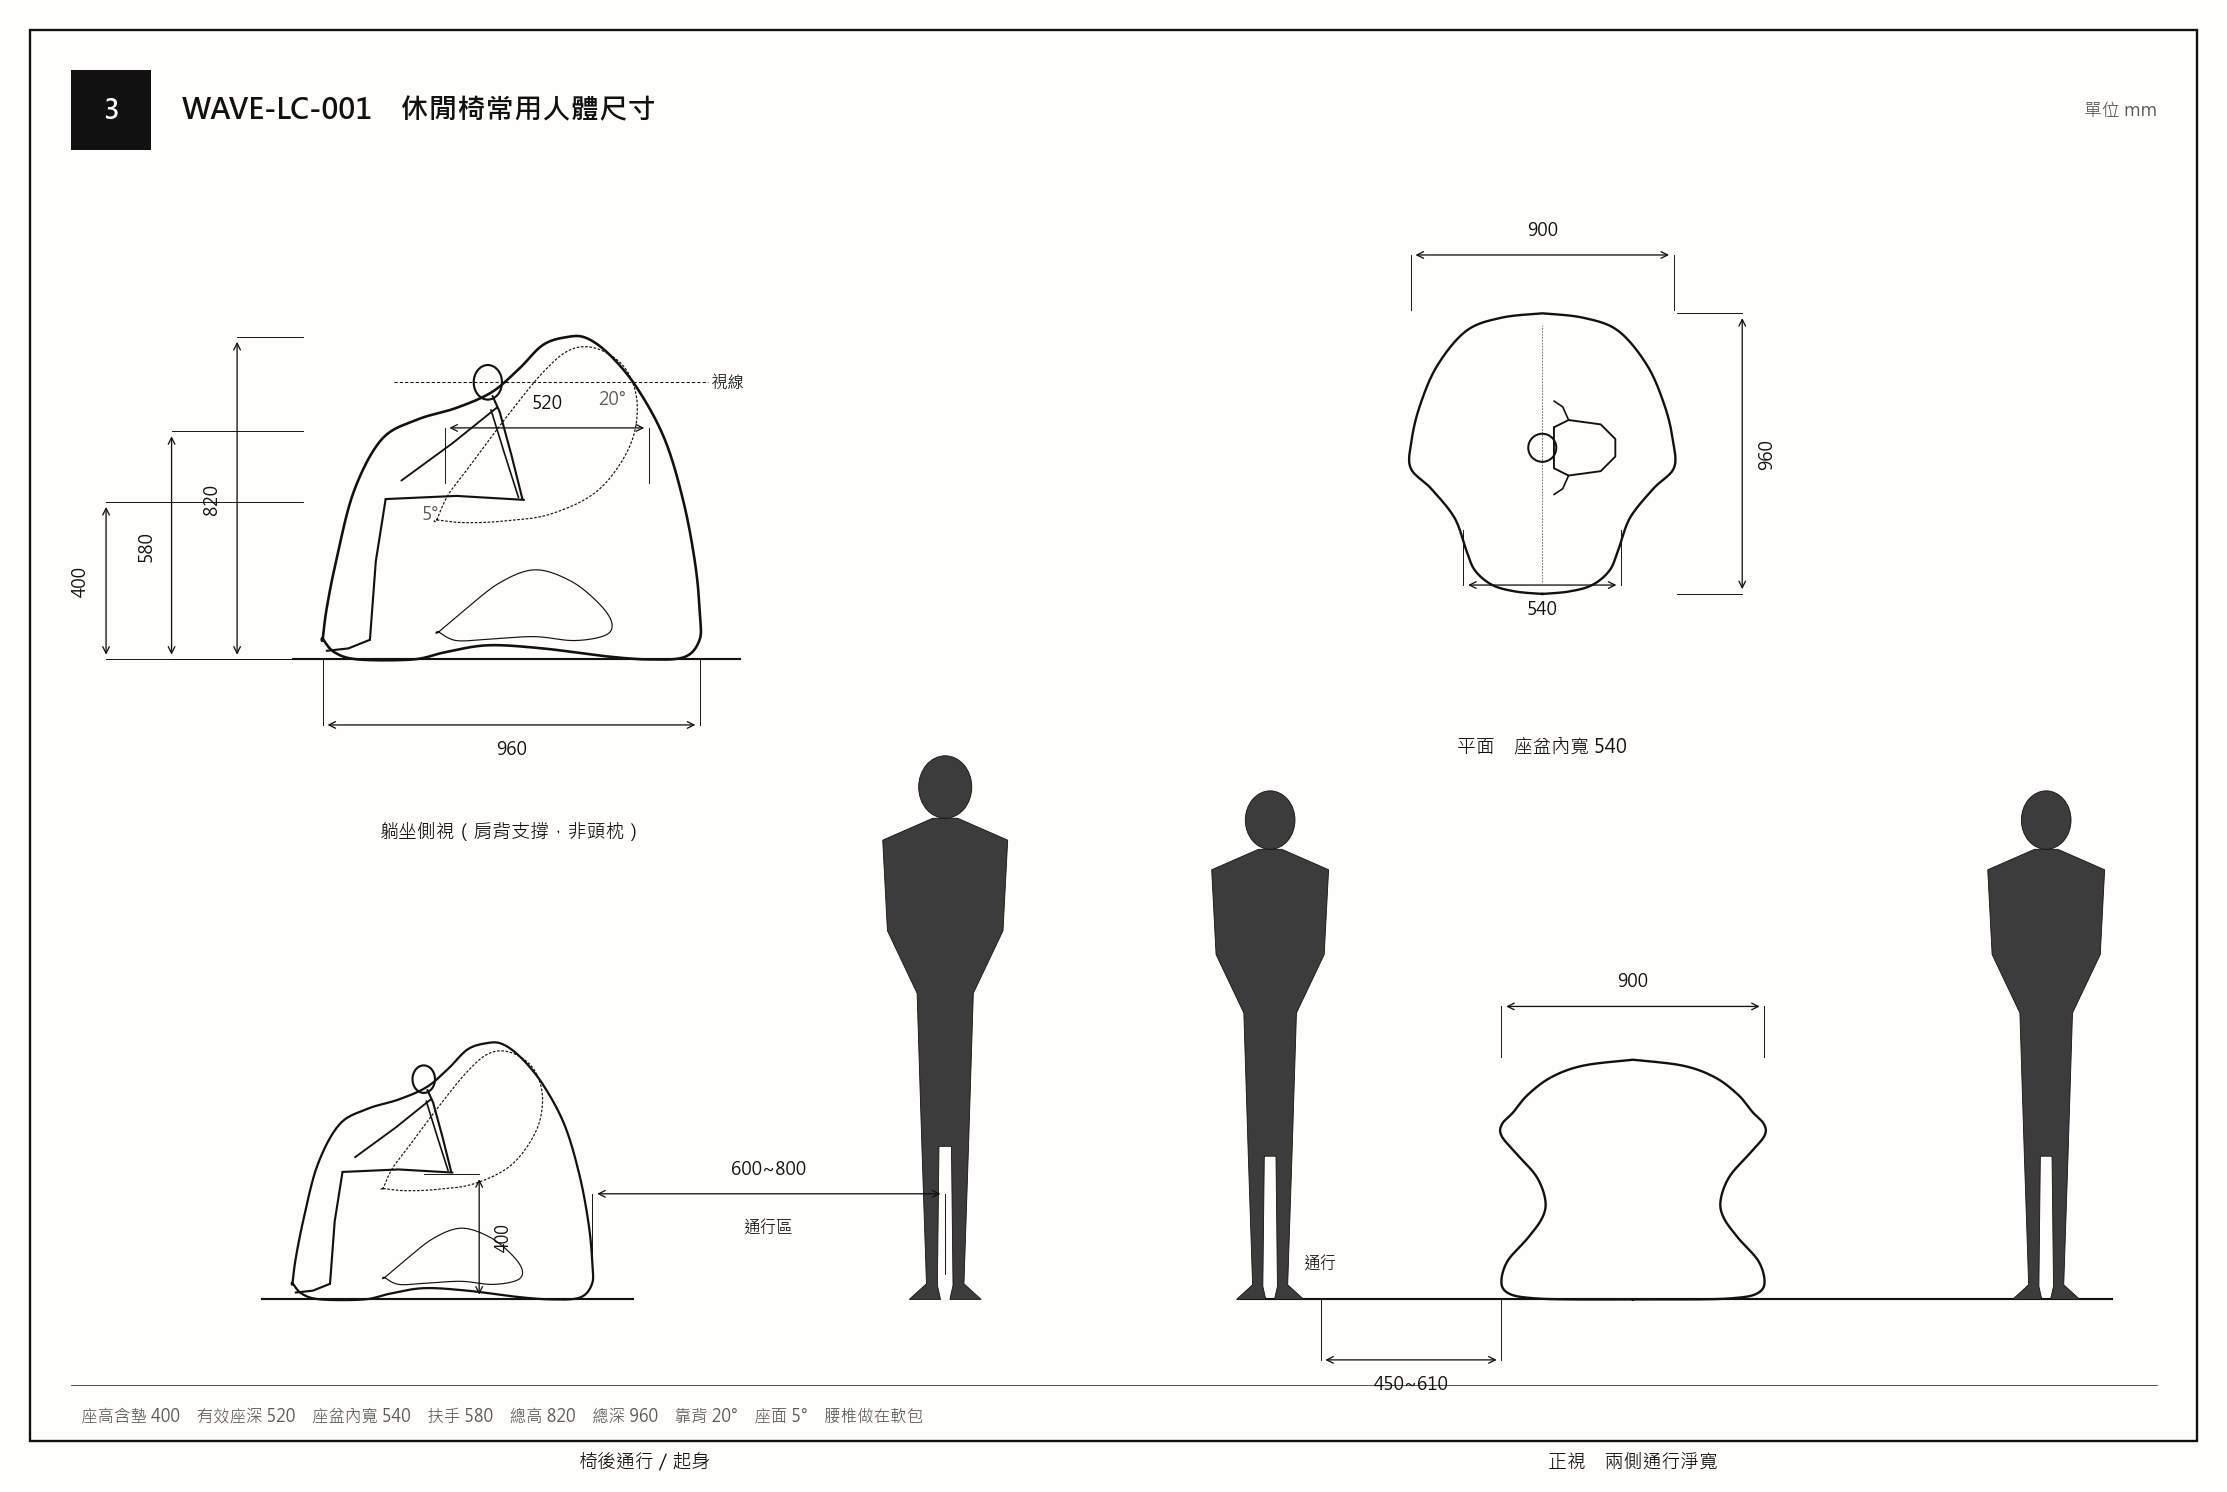
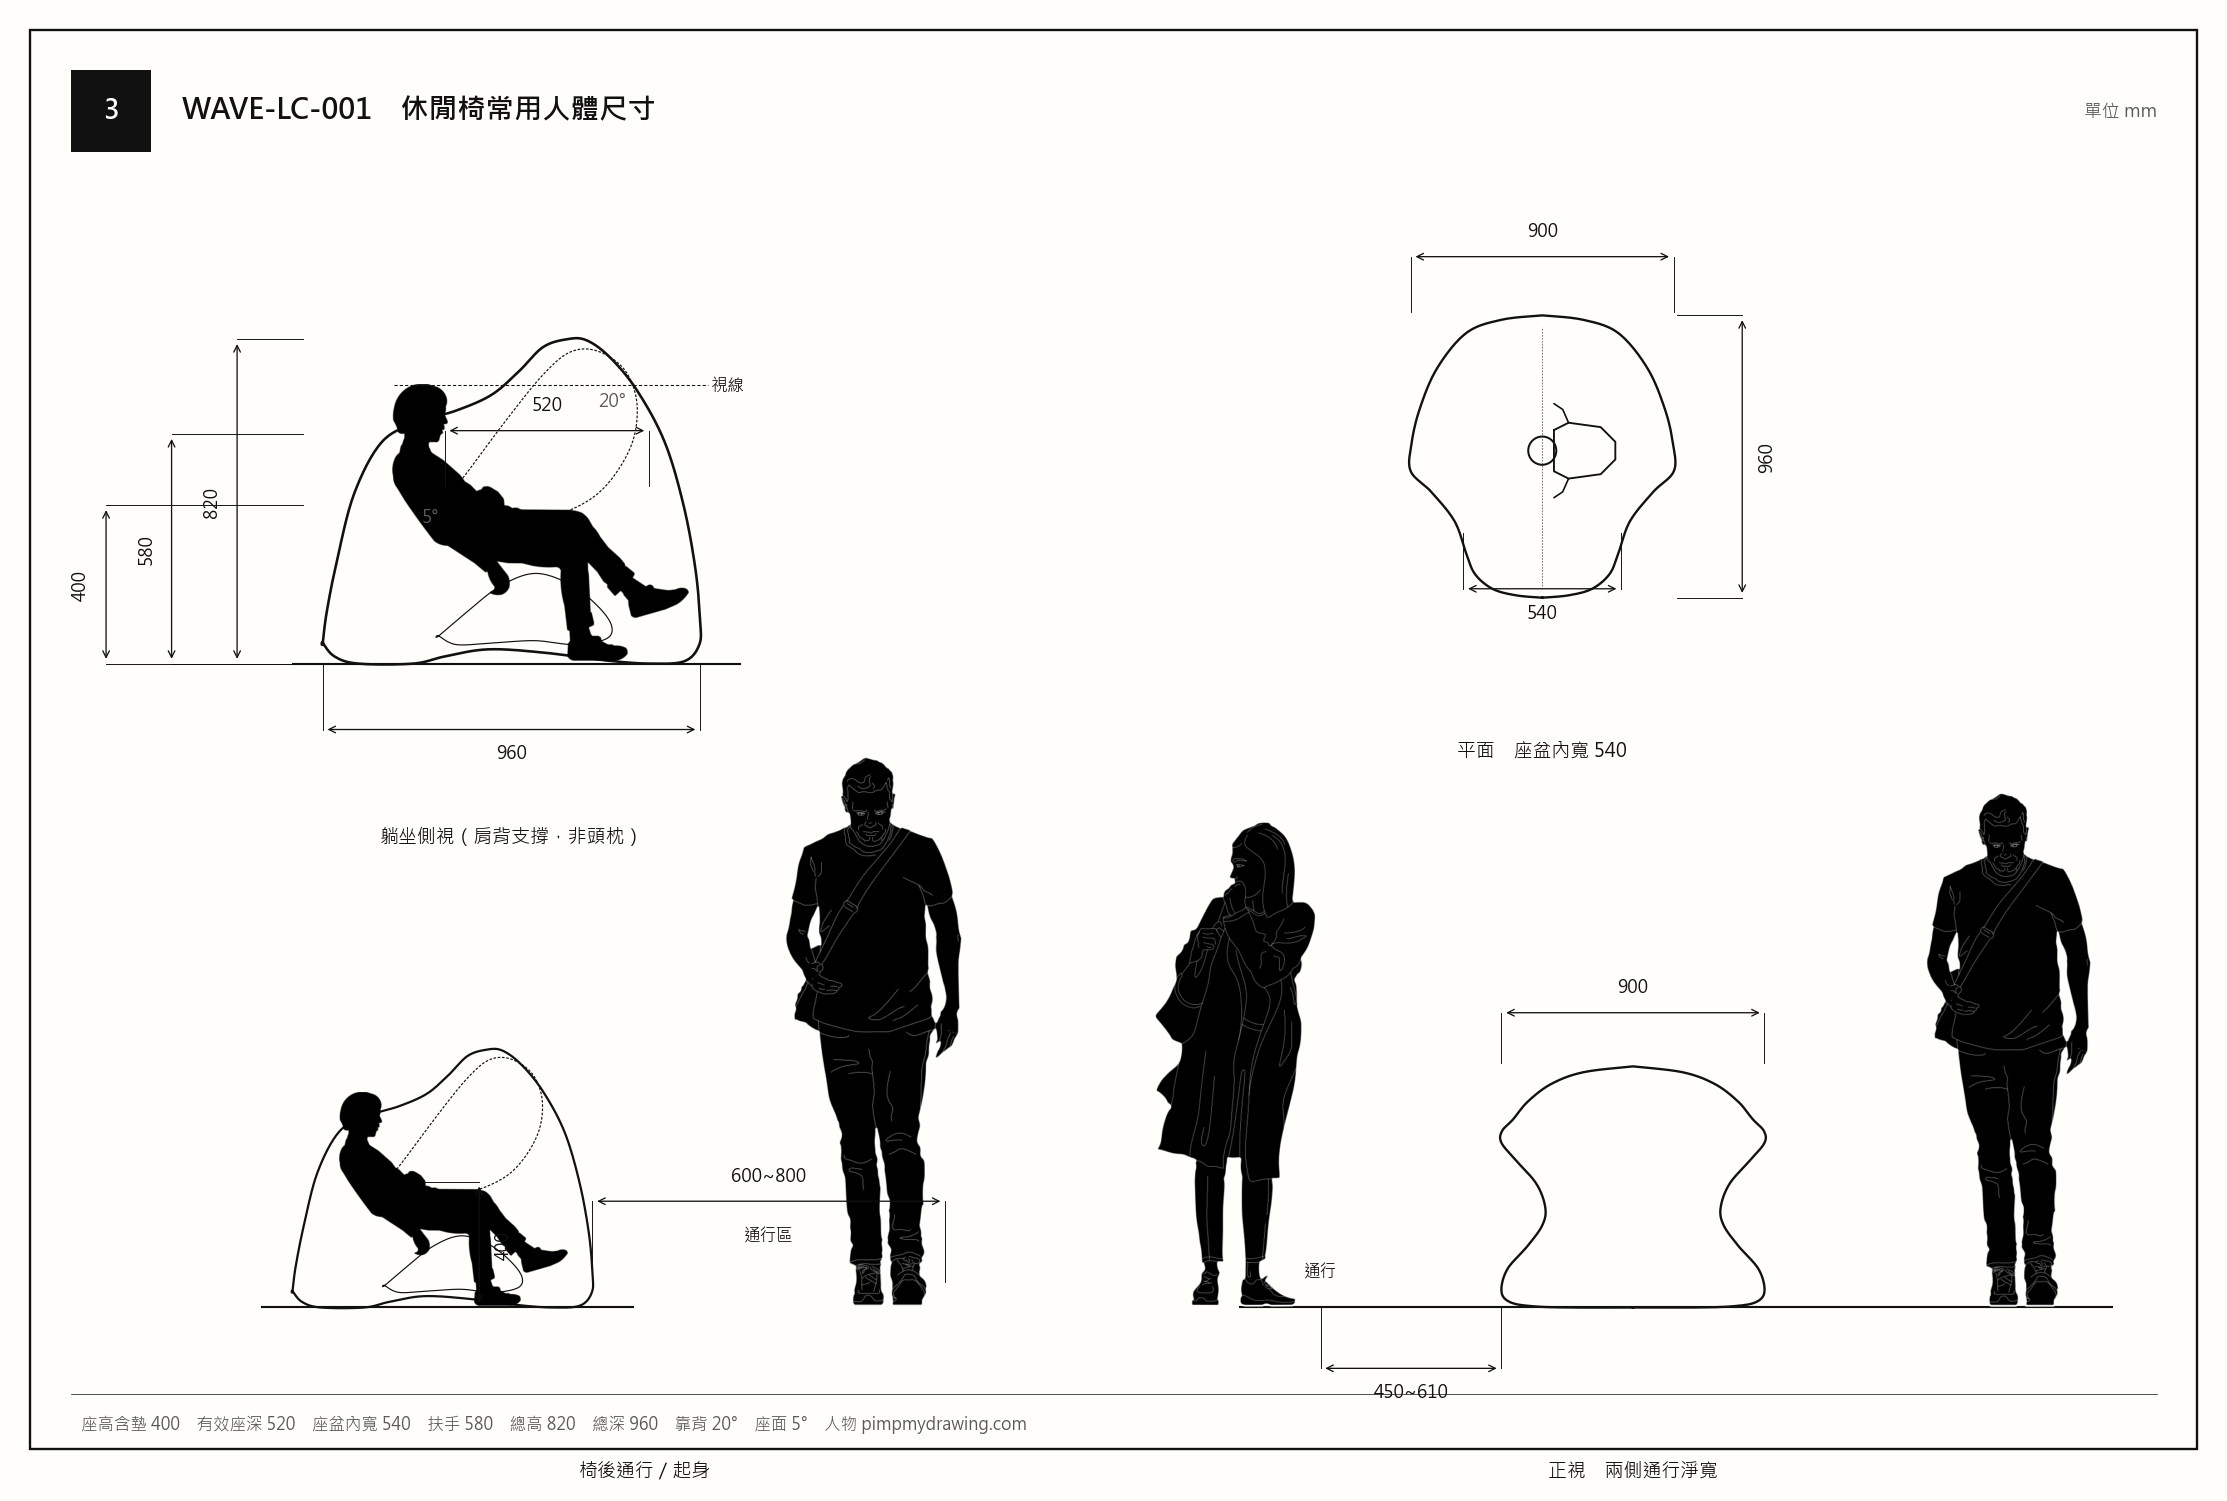
Use PimpMyDrawing scale figures on the ergonomic plates.

diff --git a/index.html b/index.html
@@ -457,7 +457,7 @@
         </div>
         <h3 style="margin:22px 0 10px" data-i18n="form.ergo">人體工學示意</h3>
         <div class="ergo" style="margin-bottom:14px">
-          <img src="02_外型/WAVE-LC-001_ergo.png?v=2" alt="WAVE ergonomics" onclick="zoom(this)">
+          <img src="02_外型/WAVE-LC-001_ergo.png?v=3" alt="WAVE ergonomics" onclick="zoom(this)">
         </div>
         <div style="max-width:460px">
           <div class="photo" onclick="zoom(this.querySelector('img'))"><img src="02_外型/ERGO_sit.jpg" alt="sit"></div>
@@ -500,7 +500,7 @@
         </div>
         <h3 style="margin:22px 0 10px" data-i18n="form.ergo">Ergonomics</h3>
         <div class="ergo" style="margin-bottom:14px">
-          <img src="02_外型/無尾熊-衣帽架/KOALA-CR-001_ergo.png?v=2" alt="KOALA ergonomics" onclick="zoom(this)">
+          <img src="02_外型/無尾熊-衣帽架/KOALA-CR-001_ergo.png?v=3" alt="KOALA ergonomics" onclick="zoom(this)">
         </div>
         <div class="grid-2">
           <div class="card">
@@ -535,7 +535,7 @@
         </div>
         <h3 style="margin:22px 0 10px" data-i18n="form.ergo">Ergonomics</h3>
         <div class="ergo" style="margin-bottom:14px">
-          <img src="02_外型/旋轉繪圖櫃/F180-RC-001_ergo.png?v=2" alt="F180 ergonomics" onclick="zoom(this)">
+          <img src="02_外型/旋轉繪圖櫃/F180-RC-001_ergo.png?v=3" alt="F180 ergonomics" onclick="zoom(this)">
         </div>
         <div class="grid-2">
           <div class="card">

diff --git a/02_外型/draw_ergo.py b/02_外型/draw_ergo.py
@@ -8,6 +8,7 @@ import matplotlib.pyplot as plt
 import matplotlib.patches as mpatches
 from matplotlib.patches import Arc, Circle, Ellipse, FancyArrowPatch, Polygon, Rectangle
 from matplotlib.font_manager import FontProperties
+from PIL import Image
 import numpy as np
 
 from draw_cad_3view import (
@@ -24,6 +25,49 @@ GRAY = "#5A5A5A"
 FILL = "#3C3C3C"
 PAPER = "#FFFEFB"
 DPI = 170
+PIMP_DIR = OUT / "_pimp"
+# Free PNG scale figures from pimpmydrawing.com (do not redistribute SVG).
+PIMP = {
+    "sit_lounge": "young-man-sitting-chilling-and-looking-at-the-side-as-a-cad-block-2d-people-109-pimpmydrawing.png",
+    "stand_side": "man-standing-dwg-cad-132-pimpmydrawing.png",
+    "stand_walk": "man-walking-dwg-cad-130-pimpmydrawing.png",
+    "stand_woman": "woman-standing-dwg-cad-134-pimpmydrawing.png",
+    "child": "a-boy-standing-looking-in-the-camera-cad-people-77-pimpmydrawing.png",
+    "girl": "girl-with-shorts-standing-looking-in-the-camera-people-dwg-52-pimpmydrawing.png",
+    "sit_chair": "man-sitting-people-dwg-185-pimpmydrawing.png",
+    "top": "person-standing-top-view-vector-persons-pimpmydrawing-6359.png",
+}
+_FIG_CACHE = {}
+
+
+def load_pimp(key):
+    if key in _FIG_CACHE:
+        return _FIG_CACHE[key]
+    path = PIMP_DIR / PIMP[key]
+    im = Image.open(path).convert("RGBA")
+    a = np.array(im)
+    rgb, al = a[:, :, :3].astype(np.float32), a[:, :, 3]
+    mask = al > 12
+    if mask.any() and rgb[mask].mean() > 160:
+        rgb = 255 - rgb
+        a[:, :, :3] = rgb.astype(np.uint8)
+    ys, xs = np.where(al > 12)
+    a = a[ys.min(): ys.max() + 1, xs.min(): xs.max() + 1]
+    _FIG_CACHE[key] = a
+    return a
+
+
+def place_pimp(ax, key, x, y, h_plate, flip=False, center=False, z=8):
+    """Place a pimpmydrawing figure. (x,y) = left-bottom, or center-bottom if center."""
+    arr = load_pimp(key)
+    if flip:
+        arr = arr[:, ::-1].copy()
+    ph, pw = arr.shape[:2]
+    w_plate = pw / ph * h_plate
+    x0 = x - w_plate / 2 if center else x
+    ax.imshow(arr, extent=[x0, x0 + w_plate, y, y + h_plate],
+              origin="upper", interpolation="bilinear", zorder=z, aspect="auto")
+    return w_plate
 
 
 def save(fig, path):
@@ -231,7 +275,7 @@ def draw_wave():
     S = 0.078
     ox, oy = 58, 155
     chair_side(ox, oy, S, 1.1)
-    stroke_sit(ax, ox + 520 * S, oy + 400 * S, S, face=-1, lounge=True)
+    place_pimp(ax, "sit_lounge", ox + 175 * S, oy + 6 * S, 700 * S, flip=False)
     eye_y = oy + 705 * S
     ax.plot([ox + 180 * S, ox + 980 * S], [eye_y, eye_y],
             color=INK, lw=0.45, ls=(0, (3, 2)), zorder=9)
@@ -249,8 +293,8 @@ def draw_wave():
     S2 = 0.062
     bx, by = 52, 28
     chair_side(bx, by, S2, 0.95)
-    stroke_sit(ax, bx + 520 * S2, by + 400 * S2, S2, face=-1, lounge=True)
-    fill_stand_front(ax, bx + D * S2 + 70, by, S2, h=1750)
+    place_pimp(ax, "sit_lounge", bx + 150 * S2, by + 5 * S2, 680 * S2)
+    place_pimp(ax, "stand_walk", bx + D * S2 + 38, by, 1750 * S2)
     dim_h(ax, bx + D * S2, bx + D * S2 + 70, by + 80 * S2, "600~800", dy=16)
     label(ax, bx + D * S2 + 35, by + 200 * S2, "通行區", fs=7, ha="center")
     dim_v(ax, by, by + 400 * S2, bx + 420 * S2, "400", dx=11, left=False, fs=7)
@@ -272,8 +316,8 @@ def draw_wave():
     fx0, fy = 318, 28
     ax.plot(fx0 + fo[:, 0] * sf, fy + fo[:, 1] * sf, color=INK, lw=1.0, zorder=5)
     gl(ax, fx0 - 78, fx0 + 95, fy)
-    fill_stand_front(ax, fx0 - 72, fy, sf, h=1750)
-    fill_stand_front(ax, fx0 + 82, fy, sf, h=1750)
+    place_pimp(ax, "stand_woman", fx0 - 95, fy, 1650 * sf)
+    place_pimp(ax, "stand_walk", fx0 + 58, fy, 1750 * sf)
     dim_h(ax, fx0 - 450 * sf, fx0 + 450 * sf, fy + 830 * sf, "900", dy=10)
     dim_h_below(ax, fx0 - 62, fx0 - 450 * sf, fy, "450~610", dy=12)
     label(ax, fx0 - 62, fy + 90 * sf, "通行", fs=7, ha="center")
@@ -281,7 +325,7 @@ def draw_wave():
 
     ax.plot([8, 422], [11, 11], color=INK, lw=0.3)
     label(ax, 10, 5,
-          "座高含墊 400    有效座深 520    座盆內寬 540    扶手 580    總高 820    總深 960    靠背 20°    座面 5°    腰椎做在軟包",
+          "座高含墊 400    有效座深 520    座盆內寬 540    扶手 580    總高 820    總深 960    靠背 20°    座面 5°    人物 pimpmydrawing.com",
           fs=7, va="center", color=GRAY)
 
     ax.set_xlim(-2, 432)
@@ -332,8 +376,8 @@ def draw_koala():
 
     # ---- B. adult + child ----
     ax2x, ay = 175, 28
-    fill_stand_front(ax, ax2x, ay, S, h=1750)
-    fill_stand_front(ax, ax2x + 70, ay, S, h=1200)
+    place_pimp(ax, "stand_woman", ax2x, ay, 1650 * S)
+    place_pimp(ax, "child", ax2x + 55, ay, 1200 * S)
     gl(ax, ax2x - 15, ax2x + 90, ay)
     dim_v(ax, ay, ay + 1750 * S, ax2x - 8, "1750", dx=12)
     dim_v(ax, ay, ay + 1200 * S, ax2x + 78, "1200", dx=12, left=False)
@@ -356,7 +400,7 @@ def draw_koala():
     caption(ax, px, py - 400 * sp - 28, "平面：花座 Ø180，偏小須配重或牆扣")
 
     ax.plot([8, 412], [10, 10], color=INK, lw=0.3)
-    label(ax, 10, 5, "兒童房／玄關短掛　·　不是大廳大衣架　·　花座 Ø180 對 1280 立柱須加鋼配重或牆扣",
+    label(ax, 10, 5, "兒童房／玄關短掛　·　不是大廳大衣架　·　人物 pimpmydrawing.com",
           fs=7, va="center", color=GRAY)
 
     ax.set_xlim(-2, 422)
@@ -396,8 +440,8 @@ def draw_f180():
     ax.plot([ox + w * S, ox + w * S + 14], [oy + 610 * S, oy + 610 * S], color=INK, lw=0.35)
     ax.plot([ox + w * S, ox + w * S + 14], [oy + 200 * S, oy + 200 * S], color=INK, lw=0.35)
 
-    fill_stand_front(ax, ox + w * S + 45, oy, S, h=1750)
-    fill_stand_front(ax, ox + w * S + 115, oy, S, h=1200)
+    place_pimp(ax, "stand_side", ox + w * S + 18, oy, 1750 * S)
+    place_pimp(ax, "child", ox + w * S + 72, oy, 1200 * S)
     dim_v(ax, oy, oy + 1750 * S, ox + w * S + 118, "1750", dx=12, left=False)
     caption(ax, ox + w * S / 2, oy - 28, "立面：站著擺物，不是書桌")
 
@@ -432,7 +476,7 @@ def draw_f180():
     caption(ax, tx + 40, ty - 14, "層高與使用")
 
     ax.plot([8, 412], [10, 10], color=INK, lw=0.3)
-    label(ax, 10, 5, "總高 1150 適合作畫／擺物　·　軸承必須能鎖　·　童房加牆扣　·　不是成人書桌",
+    label(ax, 10, 5, "總高 1150 適合作畫／擺物　·　軸承必須能鎖　·　不是成人書桌　·　人物 pimpmydrawing.com",
           fs=7, va="center", color=GRAY)
 
     ax.set_xlim(-2, 422)
